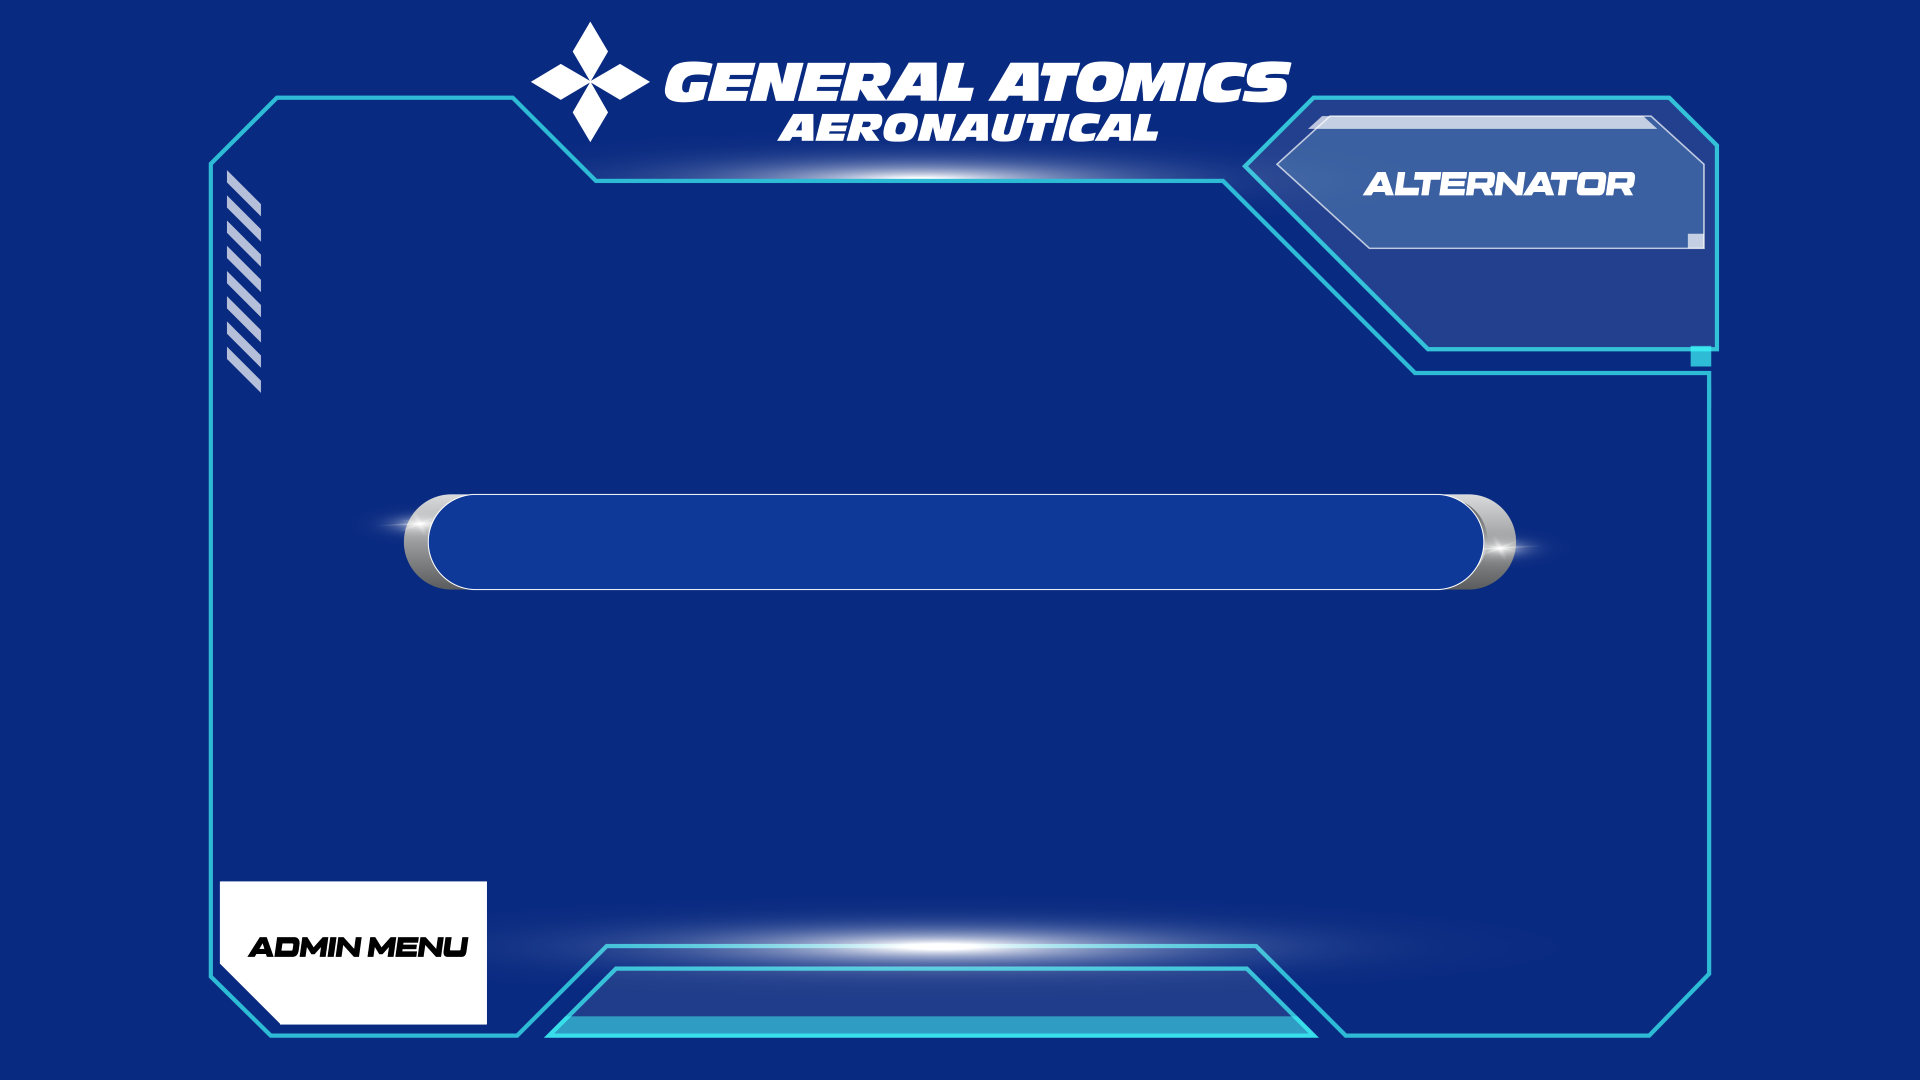
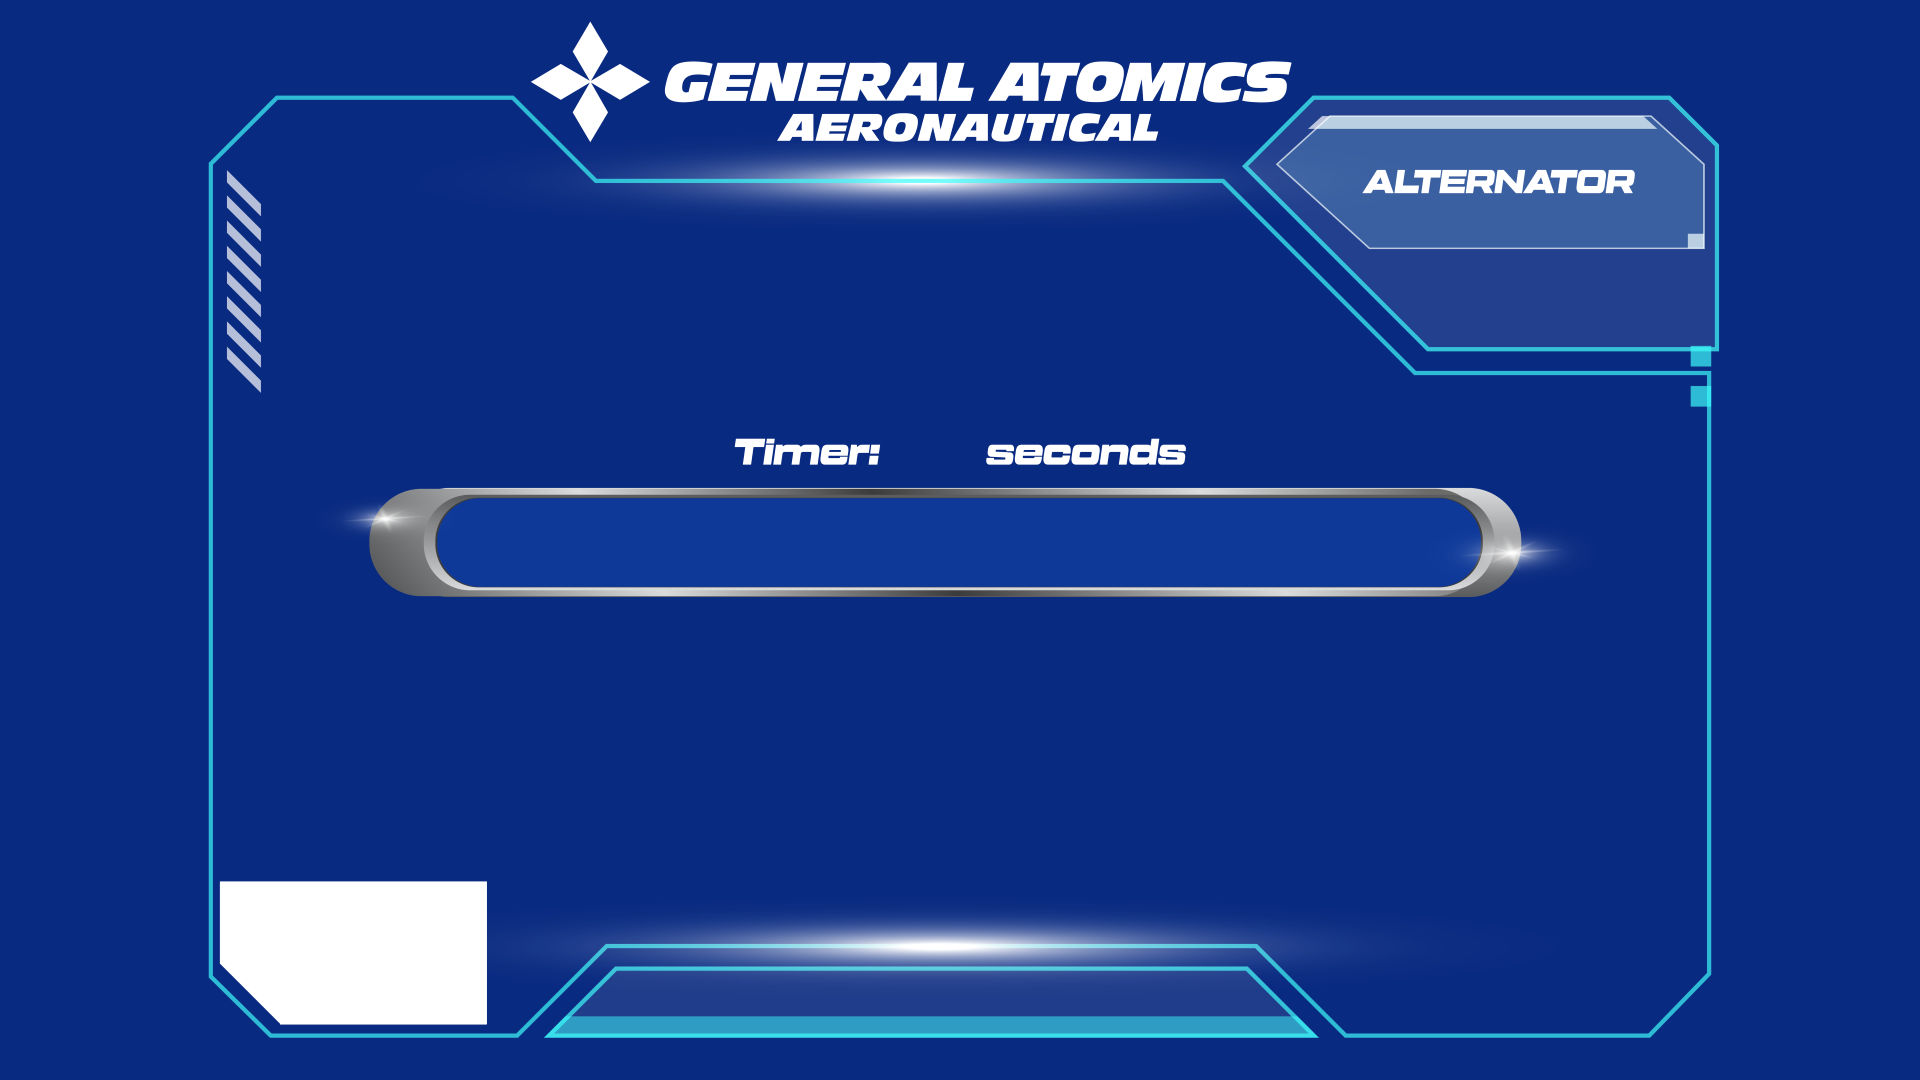
alternator updated

diff --git a/GA_GUI.py b/GA_GUI.py
@@ -36,6 +36,7 @@ from centering_retract import retract_center
 from user_retract import user_retract_run, disable_retract
 
 aileron_speed_value = 1
+alternator_timer_value = 25
 class GA(tk.Tk):
     def __init__(self):
         super().__init__()
@@ -44,6 +45,7 @@ class GA(tk.Tk):
         self.Fuel_pump_en = False
         self.current_value = 0
         self.aileron_speed_value = 1
+        self.alternator_timer_value = 25
         self.numbers_clicked = []
         self.current_value = 0
         self.value = 1
@@ -320,19 +322,19 @@ class GA(tk.Tk):
                                      borderwidth=0, relief="flat", bd=0)
         self.alternator_btn.place(x=973, y=650)
 
-
-
         self.w1 = Scale(self.alternator_page, from_=0, to=100, length=1000, orient=HORIZONTAL,
-                        troughcolor='#0e3999', width=67, sliderrelief='groove', highlightbackground='#0e3999', command=self.slider_function,
-                        sliderlength=40, font= ("Tactic Sans Extra Extended", 15), showvalue=0)
-        self.w1.set(self.current_value)
+                        troughcolor='#0e3999', width=67, sliderrelief='groove', highlightbackground='#0e3999',
+                        sliderlength=40, font=("Tactic Sans Extra Extended", 15), showvalue=0)
+        self.w1.set(alternator_timer_value)
         self.w1.pack()
-        self.w1.place(x=450, y=503)
+        self.w1.bind("<B1-Motion>", self.alternator_slider)
+        self.w1.place(x=455, y=505)
 
-        self.value_label = Label(self.alternator_page, text=self.current_value, font=("Tactic Sans Extra Extended", 25), fg='white', bg="#092a81")
+        self.value_label = Label(self.alternator_page, text=self.current_value, font=("Tactic Sans Extra Extended", 25),
+                                 fg='white', bg="#092a81")
         self.value_label.pack()
-        self.value_label.place(x=935, y=450)
-
+        self.value_label.config(text=f"{self.alternator_timer_value}", fg="red")
+        self.value_label.place(x=910, y=430)
 
         self.back = self.images["/home/pi/TEAM_MADA/images/adminmenu_btn.png"]
         self.next_button = tk.Button(self.alternator_page, image=self.back, highlightthickness=0,
@@ -588,12 +590,10 @@ class GA(tk.Tk):
     def fuel_toggle_switch(self):
         print("fuel pump ON")
         self.fuel_pump_btn.config(state=tk.DISABLED)
-        self.adminlogin_btn.config(state=tk.DISABLED)
         self.update()
 
         def callback_fuelpump():  # this to enable button
             self.fuel_pump_btn.config(state=tk.NORMAL)
-            self.adminlogin_btn.config(state=tk.NORMAL)
 
         # Create a new thread to run the DC LED function
         pump_thread = threading.Thread(target=user_fuel_pump_control, args=(callback_fuelpump,))
@@ -603,19 +603,16 @@ class GA(tk.Tk):
         # Disable the button
         print("Directional Antenna ON")
         self.switch_button1.config(state=tk.DISABLED)
-        self.adminlogin_btn.config(state=tk.DISABLED)
         self.update()
 
         def callback_directional():  # this to enable button
             self.switch_button1.config(state=tk.NORMAL)
-            self.adminlogin_btn.config(state=tk.NORMAL)
         antenna_thread = threading.Thread(target=run_ant, args=(callback_directional,))
         antenna_thread.start()
 
     def aileron_toggle_switch(self):
         print("Aileron ON")
         self.switch_button2.config(state=tk.DISABLED)
-        self.adminlogin_btn.config(state=tk.DISABLED)
         self.switch_button4.config(state=tk.DISABLED)
 
         self.update()
@@ -623,7 +620,6 @@ class GA(tk.Tk):
 
         def callback_aileron():  # this to enable button
             self.switch_button2.config(state=tk.NORMAL)
-            self.adminlogin_btn.config(state=tk.NORMAL)
             self.switch_button4.config(state=tk.NORMAL)
 
         aileron_thread = threading.Thread(target=aileron_user, args=(self.value,callback_aileron,))
@@ -640,7 +636,6 @@ class GA(tk.Tk):
         def callback_landing_gear():  # this to enable button
             self.switch_button4.config(state=tk.NORMAL)
             self.switch_button2.config(state=tk.NORMAL)
-            self.adminlogin_btn.config(state=tk.NORMAL)
 
         retract_thread = threading.Thread(target=user_retract_run, args=(callback_landing_gear,))
         retract_thread.start()
@@ -650,12 +645,10 @@ class GA(tk.Tk):
     def Alternator_toggle_switch(self):
         print("Alternator ON")
         self.switch_button5.config(state=tk.DISABLED)
-        self.adminlogin_btn.config(state=tk.DISABLED)
         self.update()
 
         def callback_alternator():  # this to enable button
             self.switch_button5.config(state=tk.NORMAL)
-            self.adminlogin_btn.config(state=tk.NORMAL)
 
         # Create a new thread to run the DC LED function
         led_thread = threading.Thread(target=DC_LED_function, args=(callback_alternator,))
@@ -672,7 +665,13 @@ class GA(tk.Tk):
             else:
                 self.value = round(self.converted_value)
                 print(self.value)
-        
+
+    def alternator_slider(self, event):
+        new_value = self.w1.get()
+        if new_value != self.alternator_timer_value:
+            self.alternator_timer_value = new_value
+            self.value_label.config(text=f"{self.alternator_timer_value}", fg="red")
+            print(self.alternator_timer_value)
     def center_landing_gear(self):
         center_steering()
         retract_center()

diff --git a/NEW_GA_GUI.py b/NEW_GA_GUI.py
@@ -23,6 +23,7 @@ import threading
 
 
 aileron_speed_value = 1
+alternator_timer_value = 25
 
 
 class GA(tk.Tk):
@@ -31,10 +32,10 @@ class GA(tk.Tk):
         # Create instances of each page class with hidden attribute set to True
         self.Fuel_pump_en = False
         self.aileron_speed_value = 1
+        self.alternator_timer_value = 25
         self.current_value = 0
         # self.init_Alternator()
         self.numbers_clicked = []
-        self.current_value = 0
         self.w1 = 0
         self.geometry("1920x1080")
         self.title('General Atomics')
@@ -316,17 +317,19 @@ class GA(tk.Tk):
         self.alternator_btn.place(x=973, y=650)
 
         self.w1 = Scale(self.alternator_page, from_=0, to=100, length=1000, orient=HORIZONTAL,
-                        # command=self.slider_function,
                         troughcolor='#0e3999', width=67, sliderrelief='groove', highlightbackground='#0e3999',
                         sliderlength=40, font=("Tactic Sans Extra Extended", 15), showvalue=0)
-        self.w1.set(self.current_value)
+        self.w1.set(alternator_timer_value)
         self.w1.pack()
-        self.w1.place(x=450, y=503)
+        self.w1.bind("<B1-Motion>", self.alternator_slider)
+        self.w1.place(x=455, y=505)
 
         self.value_label = Label(self.alternator_page, text=self.current_value, font=("Tactic Sans Extra Extended", 25),
                                  fg='white', bg="#092a81")
         self.value_label.pack()
-        self.value_label.place(x=935, y=450)
+        self.value_label.config(text=f"{self.alternator_timer_value}", fg="red")
+        self.value_label.place(x=910, y=430)
+
 
         self.back = self.images["images/adminmenu_btn.png"]
         self.next_button = tk.Button(self.alternator_page, image=self.back, highlightthickness=0,
@@ -646,8 +649,6 @@ class GA(tk.Tk):
         slider_value = int(slider_value)
         if slider_value != self.current_value:
             self.current_value = slider_value
-            self.p.ChangeDutyCycle(slider_value)
-            self.pwmDC.ChangeDutyCycle(slider_value)
             self.value_label.config(text=self.current_value)
 
     def DC_LED_function(self, callback):
@@ -673,6 +674,13 @@ class GA(tk.Tk):
         self.pwmDC.stop()
         GPIO.cleanup()
 
+
+    def alternator_slider(self, event):
+        new_value = self.w1.get()
+        if new_value != self.alternator_timer_value:
+            self.alternator_timer_value = new_value
+            self.value_label.config(text=f"{self.alternator_timer_value}", fg="red")
+            print(self.alternator_timer_value)
     def aileron_show_values(self, event):
         new_value = self.aileron_speed.get()
         if new_value != self.aileron_speed_value:
